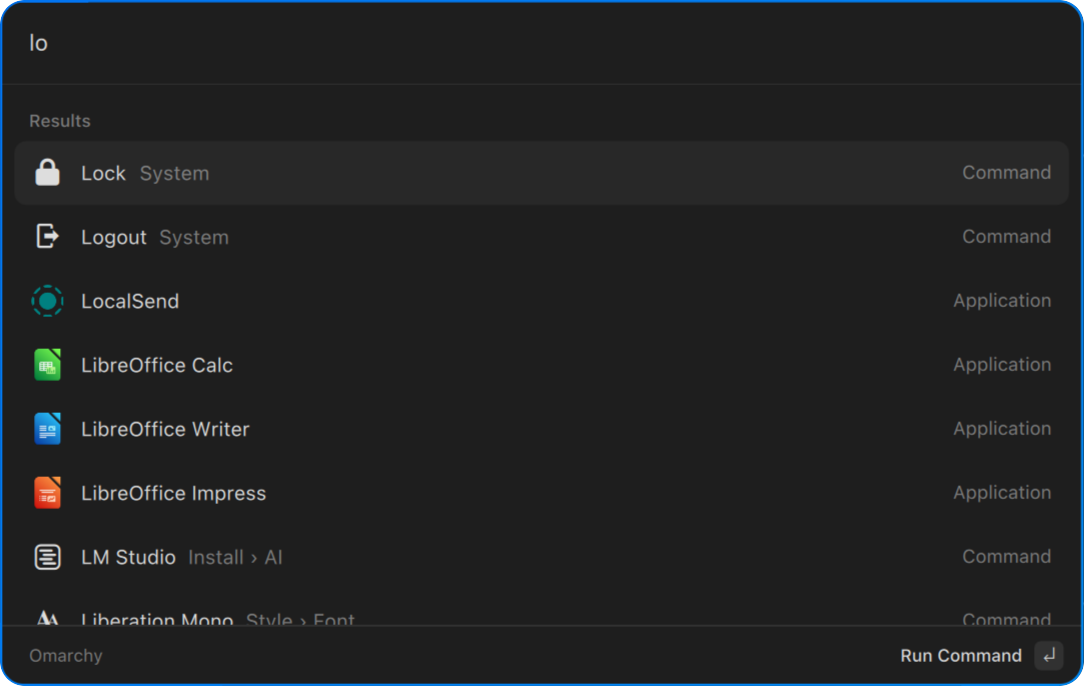
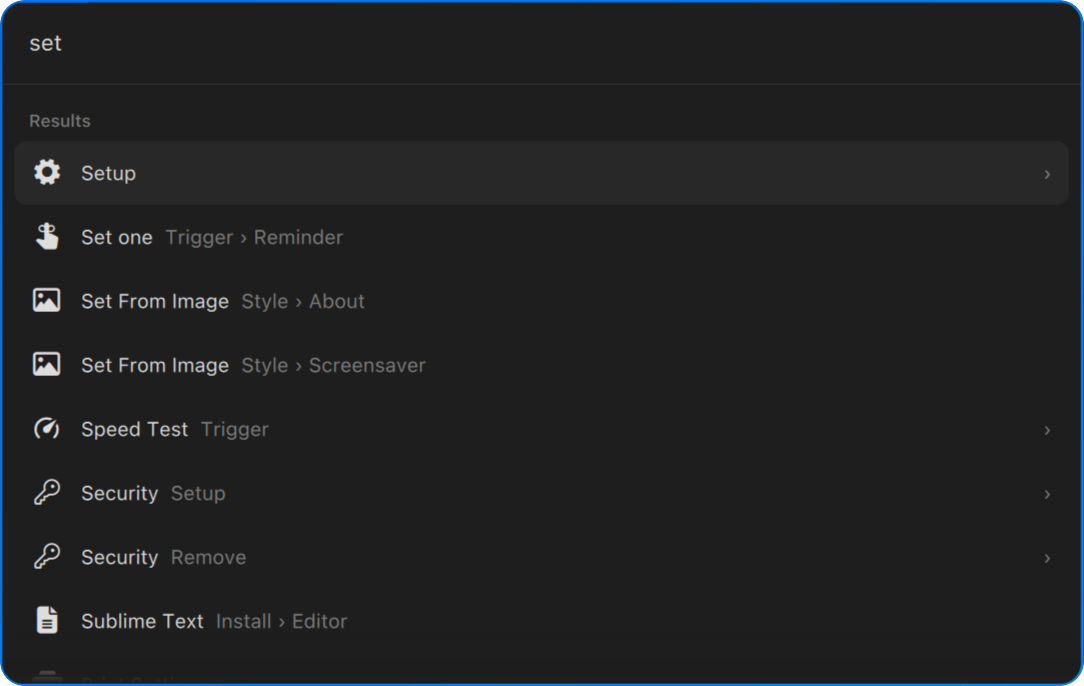
No action bar or kind labels; overflow scrims at the list's edges
The action bar is gone (the breadcrumb on the left, "Run Command" and the
return-key hint on the right), and the list runs to the card's foot. The
card keeps its size, so the list gains the bar's height.

Rows lose their right-aligned kind label (Application, Command, Menu).
A submenu keeps its `›`, now sized from the item text itself
(titleText.font.pixelSize), so the two cannot drift apart. The checkmark
on a checked row stays.

Overflow scrims at the list's top and bottom, as the window switcher
draws them and the Omarchy menu before it: the card's colour fading over
the edge, with strength tracking how much is still hidden past it, so
an edge with nothing beyond it has none. They run inner edge to inner
edge, are the list's margin plus two-thirds of a row tall (the
switcher's measure), and the bottom one takes the card's inner corner
radius now that the list reaches the corners. revealSelected() keeps the
selection that far from either edge, so a selected row is never under
a scrim and the next one peeks in faded beyond it.

Checked on screen: no bar, no labels, chevrons on Setup / Speed Test /
Security, the bottom scrim over the row cut off at the foot, the top
scrim after scrolling down, and neither when two results fit. The reveal
distance itself was not watched in motion.

preview.png retaken (query "set"). README: rows show where they live and
mark submenus with `›`.

diff --git a/Supermenu.qml b/Supermenu.qml
@@ -475,9 +475,6 @@ Item {
   readonly property string placeholder: root.activeMenu === "root"
     ? "Search for apps and commands…"
     : "Search " + root.activeTitle + "…"
-  readonly property string breadcrumb: root.activeMenu === "root"
-    ? "Omarchy"
-    : "Omarchy › " + MenuModel.pathFor(root.items, root.activeMenu)
   readonly property var selectedRow: root.selected >= 0 && root.selected < root.rows.length ? root.rows[root.selected] : null
 
   function show(route, query) {
@@ -646,7 +643,6 @@ Item {
       kind: kind,
       label: candidate.label,
       subtitle: root.relativePath(candidate.subtitle, base),
-      accessory: kind === "app" ? "Application" : (kind === "action" ? "Command" : "Menu"),
       icon: candidate.icon,
       iconFont: candidate.iconFont,
       appIcon: candidate.appIcon,
@@ -722,8 +718,10 @@ Item {
     root.revealSelected()
   }
 
-  // Scrolls just enough to show the selected row, and the header above it when
-  // it is the first of its section.
+  // Scrolls just enough to show the selected row clear of the overflow scrims,
+  // so the next row peeks in faded beyond it, and the header above it when it
+  // is the first of its section. At either end of the list nothing is hidden,
+  // the scrim there is off, and the clamps below keep just the margin.
   //
   // By arithmetic rather than positionViewAtIndex(): every row is one of two
   // fixed heights, so where a row sits is a sum, and it does not depend on the
@@ -742,8 +740,8 @@ Item {
     var top = root.rowY(at > 0 && root.rows[at - 1].type === "header" ? at - 1 : at)
     var bottom = root.rowY(at) + root.rowHeight
     var y = list.contentY
-    if (top - list.topMargin < y) y = top - list.topMargin
-    if (bottom + list.bottomMargin > y + list.height) y = bottom + list.bottomMargin - list.height
+    if (top - root.scrimHeight < y) y = top - root.scrimHeight
+    if (bottom + root.scrimHeight > y + list.height) y = bottom + root.scrimHeight - list.height
     var maxY = Math.max(-list.topMargin, root.rowY(root.rows.length) + list.bottomMargin - list.height)
     list.contentY = Math.max(-list.topMargin, Math.min(y, maxY))
   }
@@ -1033,9 +1031,10 @@ Item {
 
   // ── The card ──────────────────────────────────────────────────────────────
   //
-  // Raycast's layout -- search field on top, one list with section headers,
-  // an action bar along the bottom -- drawn entirely in the Omarchy menu's
-  // theme tokens, so a theme that restyles the Omarchy menu restyles this.
+  // Raycast's layout without its action bar -- search field on top, one list
+  // with section headers running to the card's foot -- drawn entirely in the
+  // Omarchy menu's theme tokens, so a theme that restyles the Omarchy menu
+  // restyles this.
 
   readonly property string fontFamily: Style.font.menuFamily
   readonly property color background: Color.menu.background
@@ -1058,10 +1057,13 @@ Item {
   readonly property int cardWidth: Math.min(Style.space(750), root.screenWidth - Style.gapsOut * 2)
   readonly property int cardHeight: Math.min(Style.space(475), root.screenHeight - Style.gapsOut * 2)
   readonly property int searchHeight: Style.space(56)
-  readonly property int footerHeight: Style.space(40)
   readonly property int listInset: Style.space(8)
   readonly property int rowHeight: Style.space(44)
   readonly property int headerRowHeight: Style.space(32)
+  // The overflow scrims' height, and how far revealSelected() keeps the
+  // selected row from either edge so it is never under one: the list's margin
+  // plus two-thirds of a row, the window switcher's measure.
+  readonly property real scrimHeight: Math.min(list.topMargin + root.rowHeight * 2 / 3, list.height / 2)
   readonly property int iconSize: Style.space(22)
   // Glyph icons at the share of the icon box iconLarge had when the box was
   // 20, so they keep pace with app icons; there is no type token between
@@ -1222,7 +1224,7 @@ Item {
         ListView {
           id: list
           anchors.top: searchRule.bottom
-          anchors.bottom: footerRule.top
+          anchors.bottom: parent.bottom
           anchors.left: parent.left
           anchors.right: parent.right
           anchors.leftMargin: root.listInset
@@ -1368,22 +1370,14 @@ Item {
                 }
 
                 Text {
-                  anchors.verticalCenter: parent.verticalCenter
-                  textFormat: Text.PlainText
-                  text: row.isHeader ? "" : row.modelData.accessory
-                  color: root.muted
-                  font.family: root.fontFamily
-                  font.pixelSize: Style.font.subtitle
-                }
-
-                Text {
                   visible: row.isMenu
                   anchors.verticalCenter: parent.verticalCenter
                   textFormat: Text.PlainText
                   text: "›"
                   color: root.muted
                   font.family: root.fontFamily
-                  font.pixelSize: Style.font.title
+                  // The item text's size, whatever that becomes.
+                  font.pixelSize: titleText.font.pixelSize
                 }
               }
             }
@@ -1429,75 +1423,49 @@ Item {
           }
         }
 
+        // Overflow scrims, as the window switcher draws them and the Omarchy
+        // menu before it (Menu.qml's scroll scrims): the card's own colour
+        // fading out over the list's top and bottom edges. Strength tracks how
+        // much is still hidden past each edge rather than a clock, so a jump
+        // lands with the fade already right, and an edge with nothing beyond
+        // it has none.
+        //
+        // Full width, inner edge to inner edge, so a highlighted row passing
+        // under one fades across its whole width. The height, scrimHeight, is
+        // the list's margin plus two-thirds of a row, the switcher's measure: a
+        // row at the edge sits wholly inside the opaque run, not just under its
+        // tail, and revealSelected() keeps the selection out of it. The
+        // bottom one reaches into the card's rounded corners and takes their
+        // inner radius; its top corners are the transparent end, so rounding
+        // them too costs nothing.
         Rectangle {
-          id: footerRule
-          anchors.bottom: footer.top
+          anchors.top: list.top
           anchors.left: parent.left
           anchors.right: parent.right
-          height: Style.spacing.hairline
-          color: root.hairline
+          height: root.scrimHeight
+          visible: opacity > 0
+          opacity: list.contentHeight > list.height
+            ? Math.max(0, Math.min(1, (list.contentY - list.originY) / height))
+            : 0
+          gradient: Gradient {
+            GradientStop { position: 0; color: root.background }
+            GradientStop { position: 1; color: Util.alpha(root.background, 0) }
+          }
         }
 
-        // ── Action bar ──
-        Item {
-          id: footer
-          anchors.bottom: parent.bottom
+        Rectangle {
+          anchors.bottom: list.bottom
           anchors.left: parent.left
           anchors.right: parent.right
-          height: root.footerHeight
-
-          Text {
-            anchors.left: parent.left
-            anchors.leftMargin: Style.space(18)
-            anchors.right: actionHint.left
-            anchors.rightMargin: Style.space(12)
-            anchors.verticalCenter: parent.verticalCenter
-            textFormat: Text.PlainText
-            text: root.breadcrumb
-            color: root.muted
-            font.family: root.fontFamily
-            font.pixelSize: Style.font.body
-            elide: Text.ElideLeft
-          }
-
-          Row {
-            id: actionHint
-            visible: root.selectedRow !== null
-            anchors.right: parent.right
-            anchors.rightMargin: Style.space(12)
-            anchors.verticalCenter: parent.verticalCenter
-            spacing: Style.space(8)
-
-            Text {
-              anchors.verticalCenter: parent.verticalCenter
-              textFormat: Text.PlainText
-              text: !root.selectedRow ? ""
-                : root.selectedRow.kind === "app" ? "Open Application"
-                : root.selectedRow.kind === "action" ? "Run Command"
-                : "Open Menu"
-              color: root.foreground
-              font.family: root.fontFamily
-              font.pixelSize: Style.font.body
-              font.weight: Font.Medium
-            }
-
-            Rectangle {
-              anchors.verticalCenter: parent.verticalCenter
-              width: Math.max(height, returnKey.implicitWidth + Style.space(10))
-              height: Style.space(20)
-              radius: Style.space(5)
-              color: Util.alpha(root.foreground, 0.1)
-
-              Text {
-                id: returnKey
-                anchors.centerIn: parent
-                textFormat: Text.PlainText
-                text: "↵"
-                color: root.foreground
-                font.family: root.fontFamily
-                font.pixelSize: Style.font.body
-              }
-            }
+          height: root.scrimHeight
+          radius: Math.max(0, Style.cornerRadius - card.contentBottomInset)
+          visible: opacity > 0
+          opacity: list.contentHeight > list.height
+            ? Math.max(0, Math.min(1, (list.originY + list.contentHeight - list.height - list.contentY) / height))
+            : 0
+          gradient: Gradient {
+            GradientStop { position: 0; color: Util.alpha(root.background, 0) }
+            GradientStop { position: 1; color: root.background }
           }
         }
       }

diff --git a/README.md b/README.md
@@ -8,8 +8,8 @@ what you chose last time comes first.
 ![The supermenu](preview.png)
 
 - **Everything in one list.** Apps, Omarchy's commands and its submenus are
-  searched together, each row showing where it lives (`Setup › Network`) and
-  what it is (`Application`, `Command`, `Menu`).
+  searched together, each row showing where it lives (`Setup › Network`), and
+  a submenu marked with a `›`.
 - **It learns your queries.** Pick Tailscale after typing `sc` and the next `sc`
   puts Tailscale first, although Screenshot and Screensaver match `sc` better.
   What you learn for one query stays with that query.
